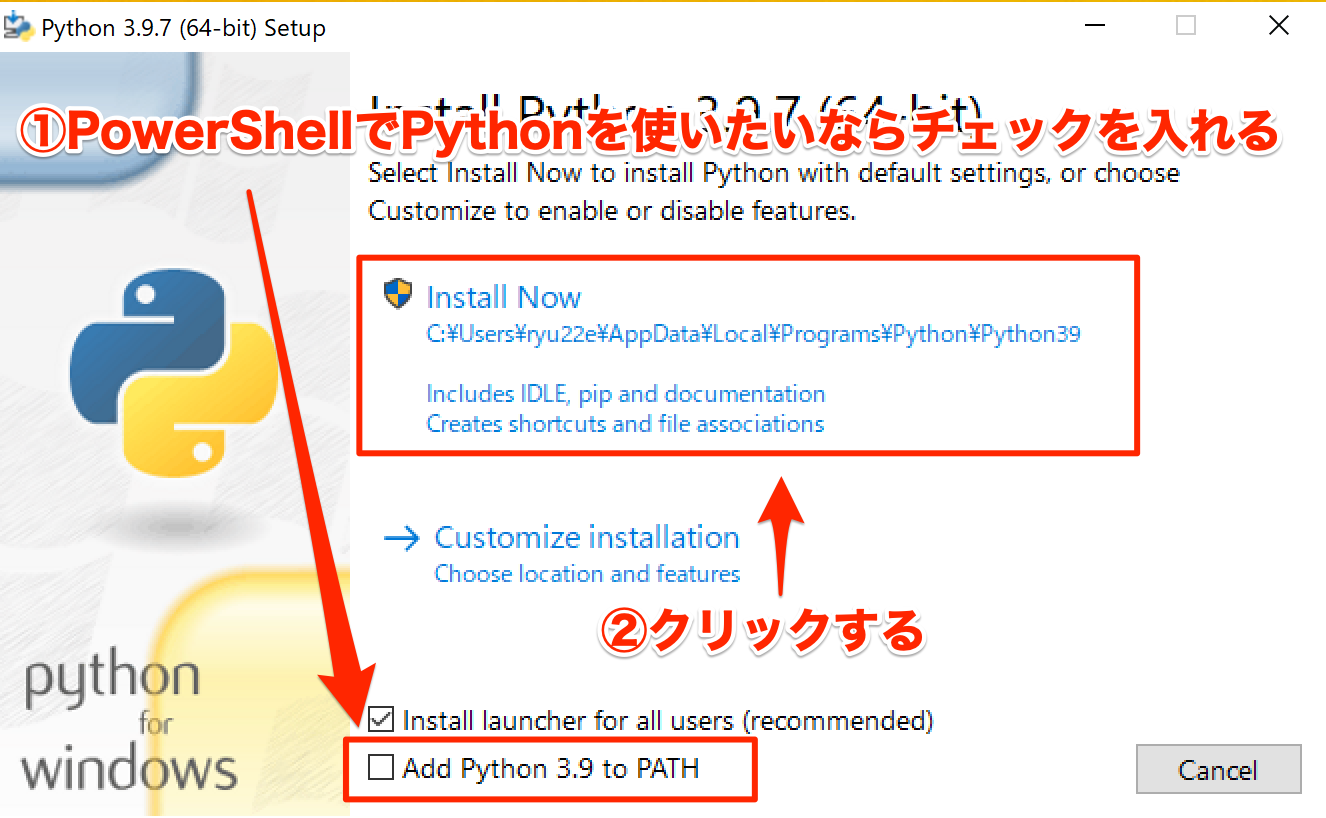
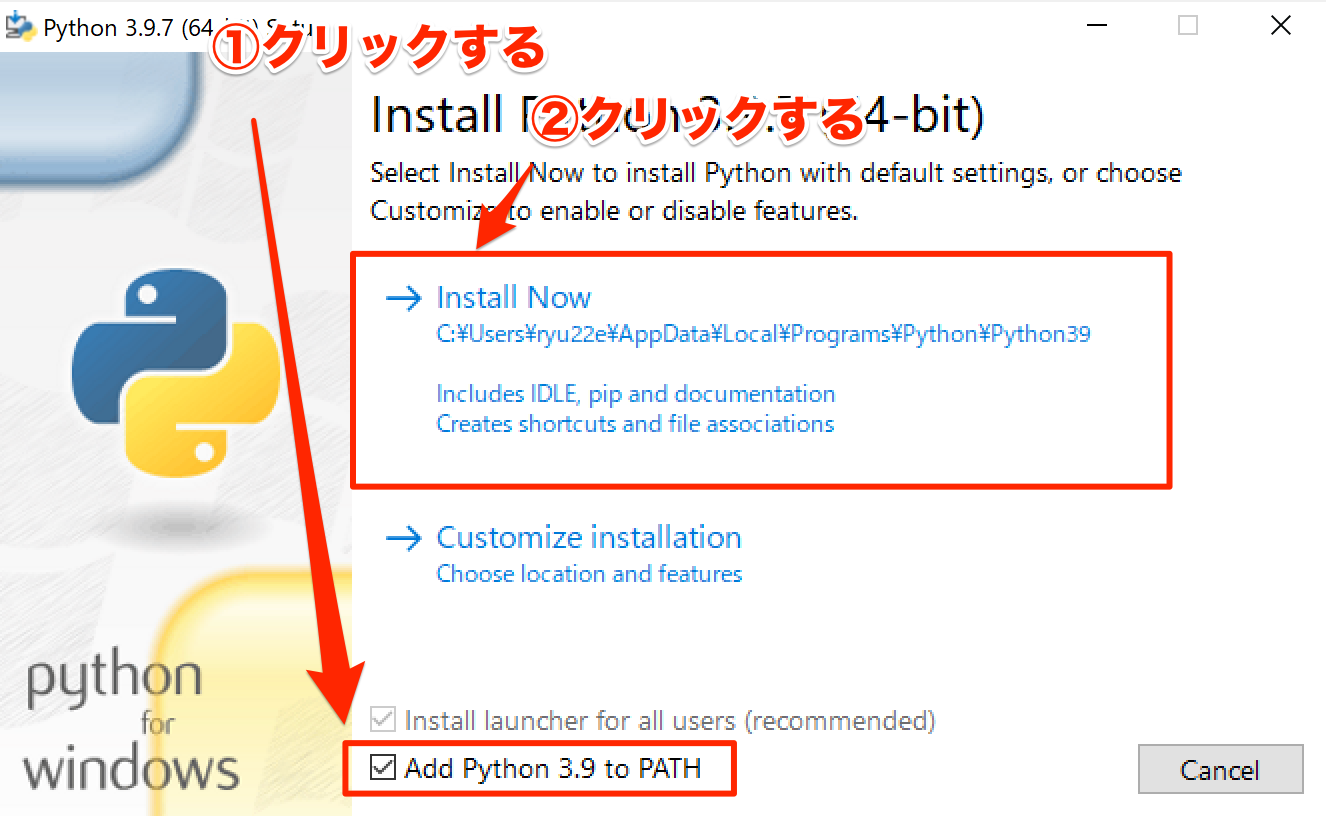
WindowsでのPythonインストール方法について更新

diff --git a/source/python-setup/install-py39-win.md b/source/python-setup/install-py39-win.md
@@ -24,8 +24,7 @@
 
 ## Pythonをインストールする
 ダウンロードしたPythonインストーラをダブルクリックすると、以下の画面が表示されます。
-PowerShellでPythonを使いたい場合は「Add Python 3.9 to PATH」にチェックを入れてください。
-「Install Now」をクリックすると次の画面に進みます。
+「Add Python 3.9 to PATH」にチェックを入れてから「Install Now」をクリックすると次の画面に進みます。
 
 ![Pythonインストーラの最初の画面](./images/setup-python-for-win-1.png "Pythonインストーラの最初の画面")
 *Pythonインストーラの最初の画面*
